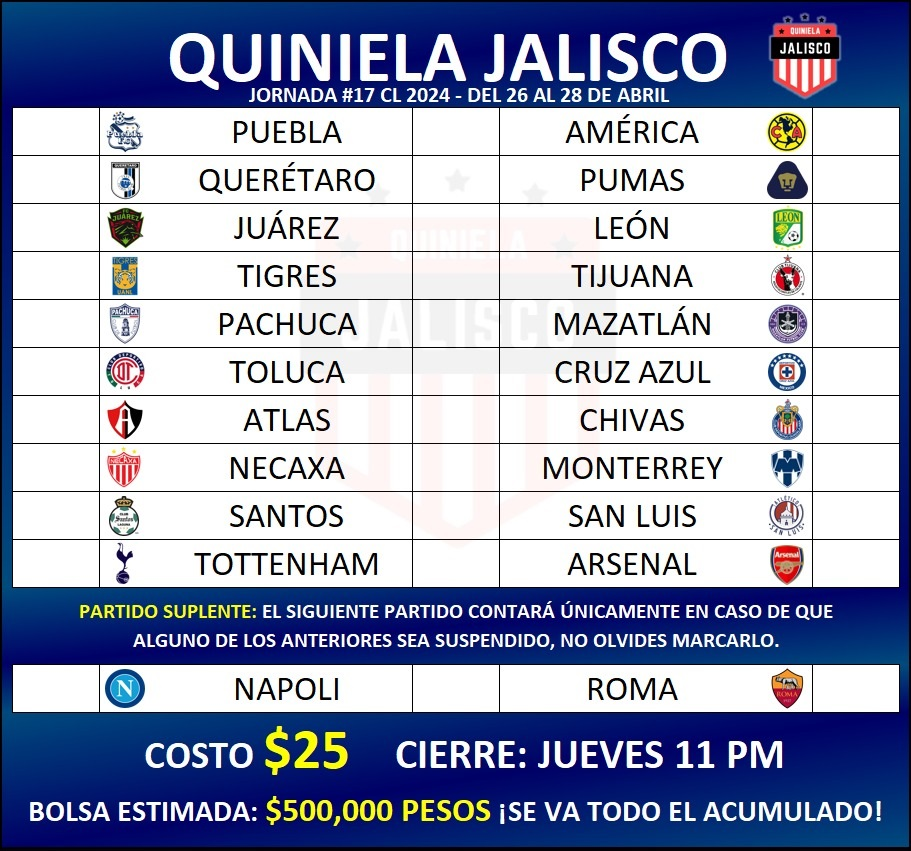
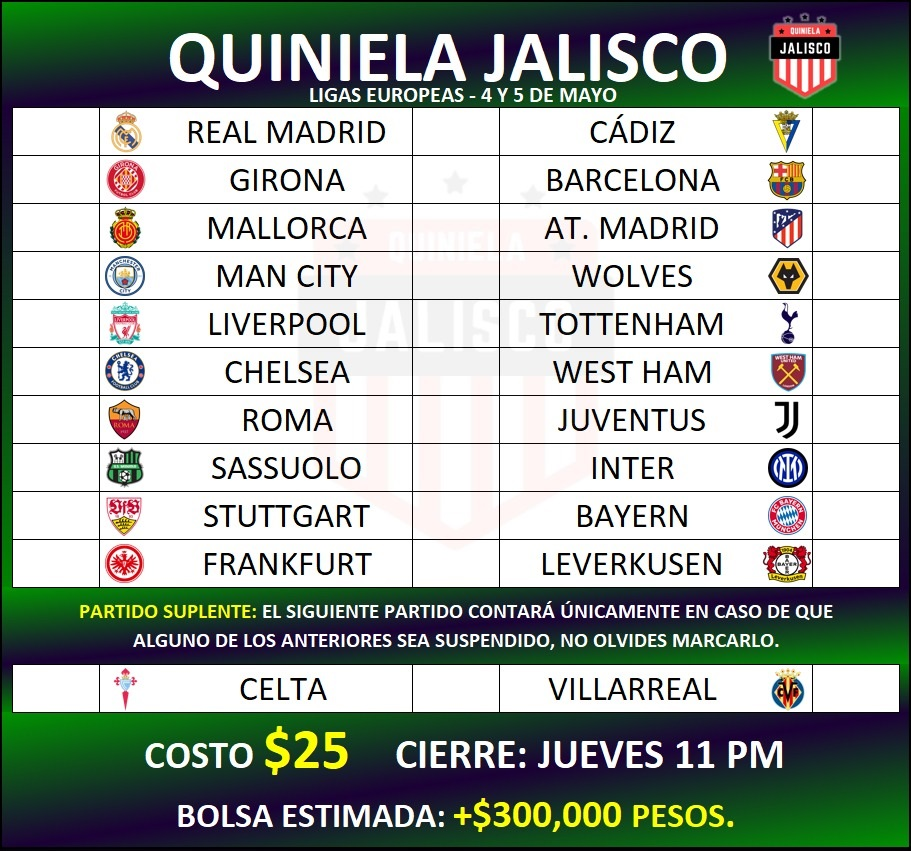
Ligas europeas

diff --git a/11/styles11.css b/11/styles11.css
@@ -90,13 +90,13 @@ body{
 #text{
     font-weight: bold;
     text-align: center;
-    color: #a4eeff;
+    color: #cdf5ff;
     text-shadow: 1px 2px 2px black;
     margin-top: 8.5%;
     border-top: solid 1px black;
     border-radius: 0 0 14px 14px;
-    background: -webkit-linear-gradient(0.48turn, rgb(0 13 78) -7%, rgb(0 32 112) 80%);
-    background: linear-gradient(0.48turn, rgb(0 13 78) -7%, rgb(0 32 112) 80%);
+    background: -webkit-linear-gradient(0.49turn, rgb(8 111 15) -7%, rgb(27 8 51) 80%);
+    background: linear-gradient(0.49turn, rgb(8 111 15) -7%, rgb(27 8 51) 80%);
 }
 
 .text-lg{
@@ -293,7 +293,7 @@ h6{
 }
 
 #cantidad:before{
-    content:'$500,000 pesos \A¡Se reparte todo el acumulado!';
+    content:'+$300,000 pesos';
     color: yellow;
     white-space:pre;
 }
